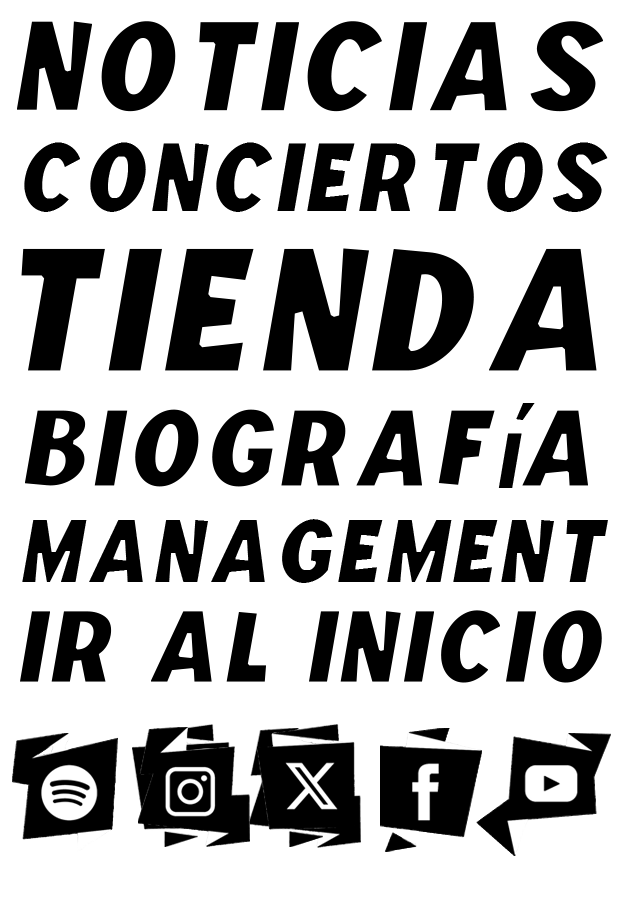
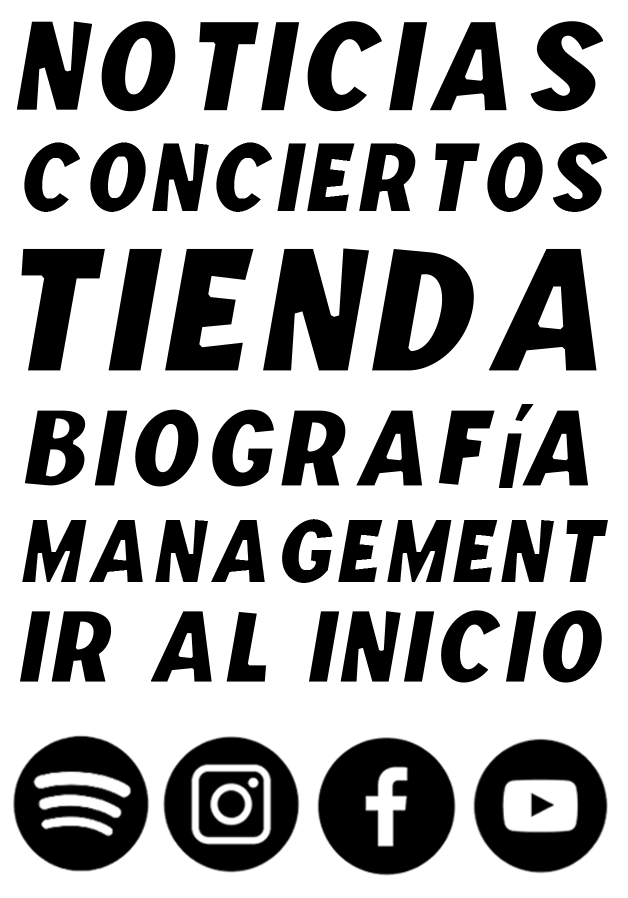
Add files via upload

Changed region(s): [[0.0, 0.8107, 0.9682, 0.9978], [0.8169, 0.4365, 0.8471, 0.4677]]

diff --git a/menu_movil.html b/menu_movil.html
@@ -79,15 +79,11 @@ body {
 <body>
 <TABLE WIDTH="100%" HEIGHT="100%">
   <TR>
-    <TD VALIGN="MIDDLE" ALIGN="CENTER"><p><img src="menu-sp.png" width="628" height="898" usemap="#Map2MapMapMapMap" border="0">
-        <map name="Map2MapMapMapMap">
+    <TD VALIGN="MIDDLE" ALIGN="CENTER"><p><img src="../2024 ElVientoDeNoviembre.com/menu-sp.png" width="628" height="898" usemap="#Map2MapMapMapMap" border="0">
+        <map name="Map2MapMapMapMap"><area shape="circle" coords="231,804,69" href="https://www.instagram.com/david_atenas"><area shape="circle" coords="386,806,69" href="https://fb.me/davidatenasoficial"><area shape="circle" coords="541,806,69" href="https://www.youtube.com/sequedodormido">
           <area shape="rect" coords="745,692,851,805" href="index_movil.html">
-          <area shape="rect" coords="5,735,123,857" href="https://play.spotify.com/artist/08FA4kpmXgGIN6nDR7uPQ6?play=true&utm_source=open.spotify.com&utm_medium=open">
-          <area shape="rect" coords="494,734,604,855" href="https://www.youtube.com/sequedodormido">
-          <area shape="rect" coords="130,734,244,856" href="https://www.instagram.com/david_atenas">
-          <area shape="rect" coords="257,733,370,857" href="https://twitter.com/davidatenas_">
-          <area shape="rect" coords="383,733,483,855" href="https://fb.me/davidatenasoficial">
-          <area shape="rect" coords="745,692,851,805" href="index_movil.html">
+          <area shape="circle" coords="81,805,69" href="https://play.spotify.com/artist/08FA4kpmXgGIN6nDR7uPQ6?play=true&utm_source=open.spotify.com&utm_medium=open">
+<area shape="rect" coords="745,692,851,805" href="index_movil.html">
           <area shape="rect" coords="10,505,616,593" href="booking_management_movil.html">
           <area shape="rect" coords="9,229,616,392" href="tienda_movil.html">
           <area shape="rect" coords="11,398,613,501" href="sobre_mi_movil.html">
